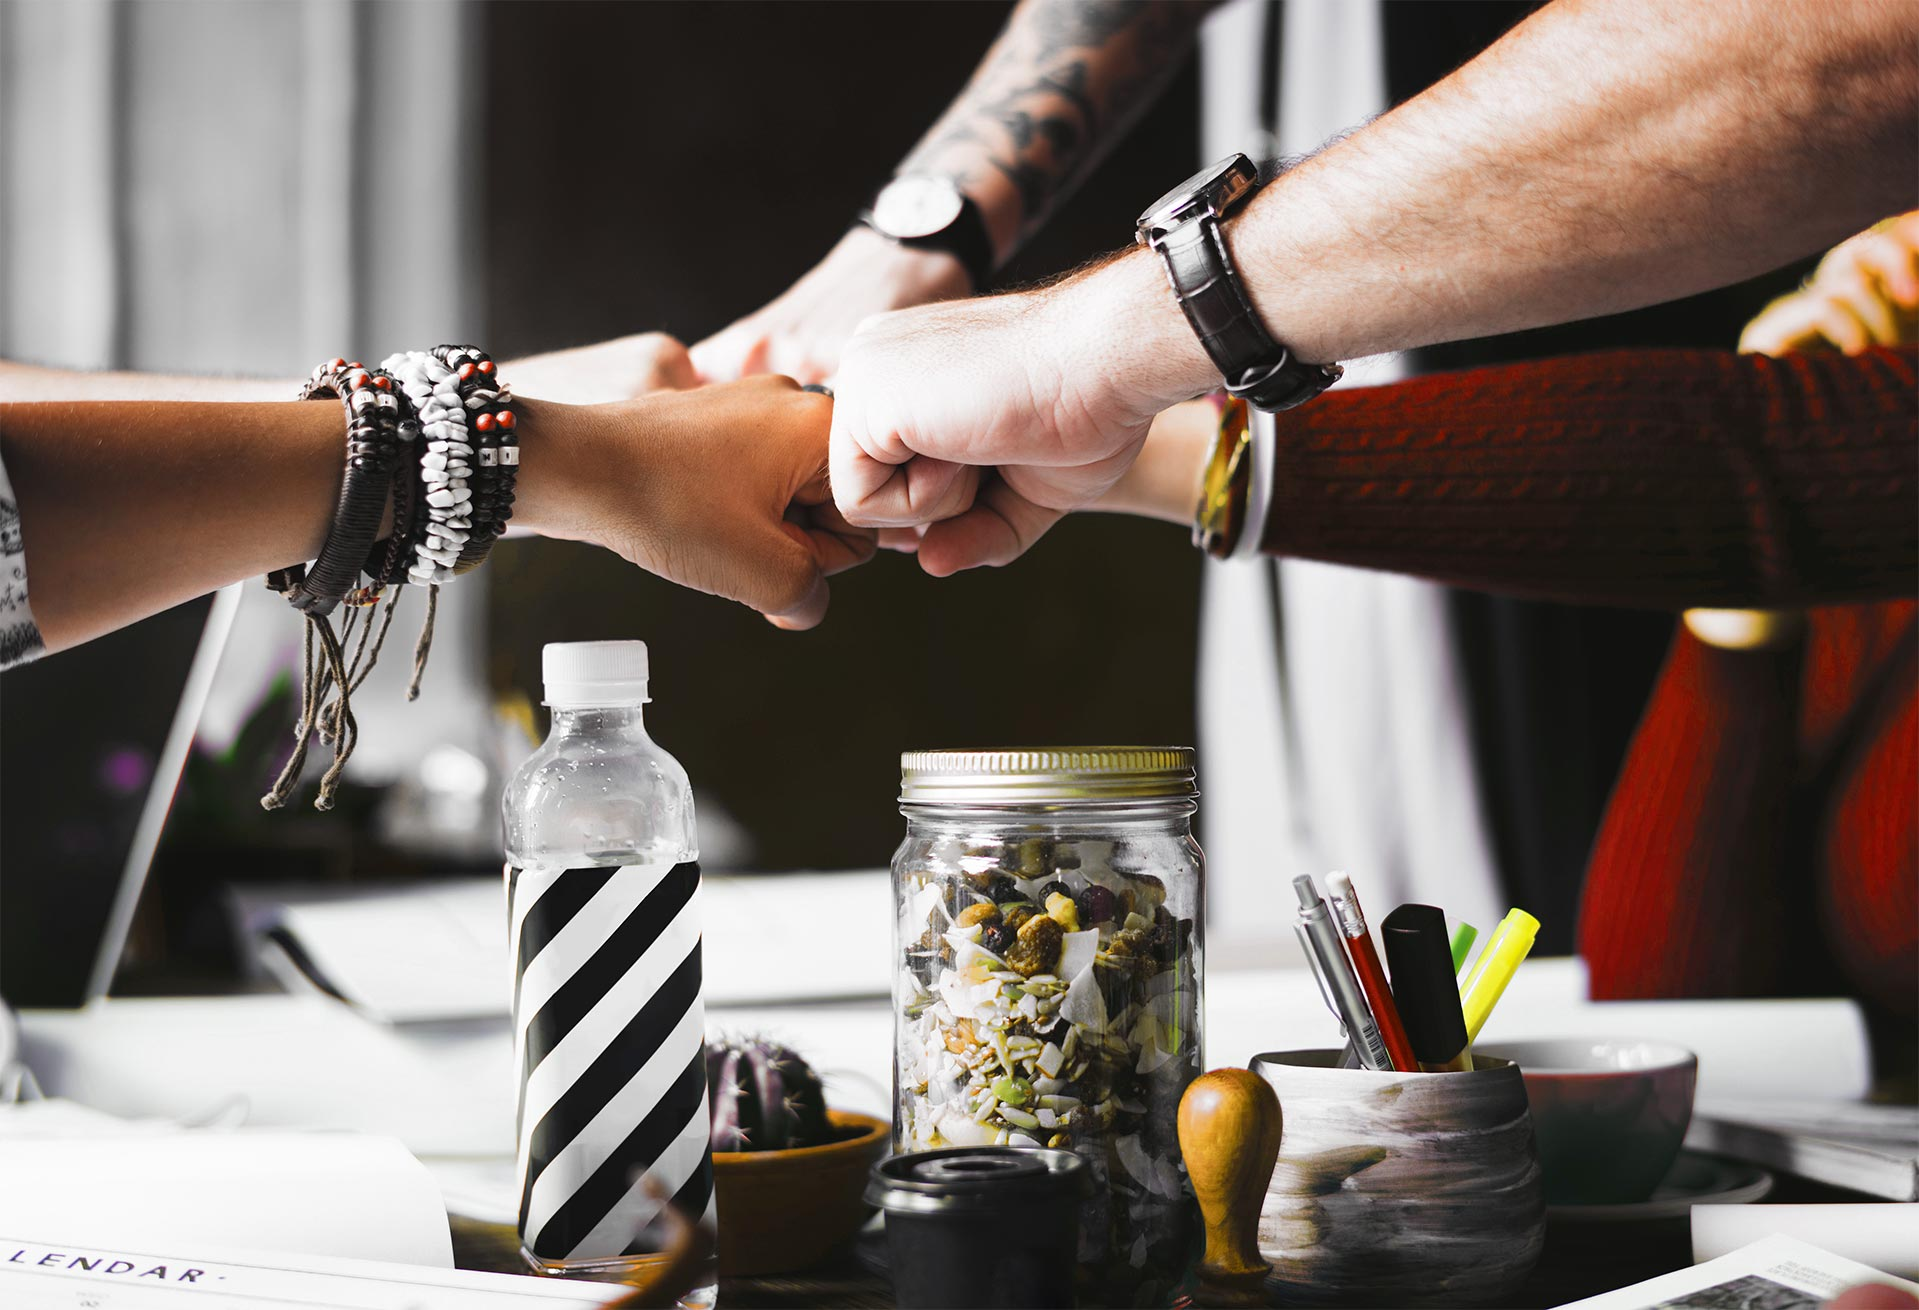
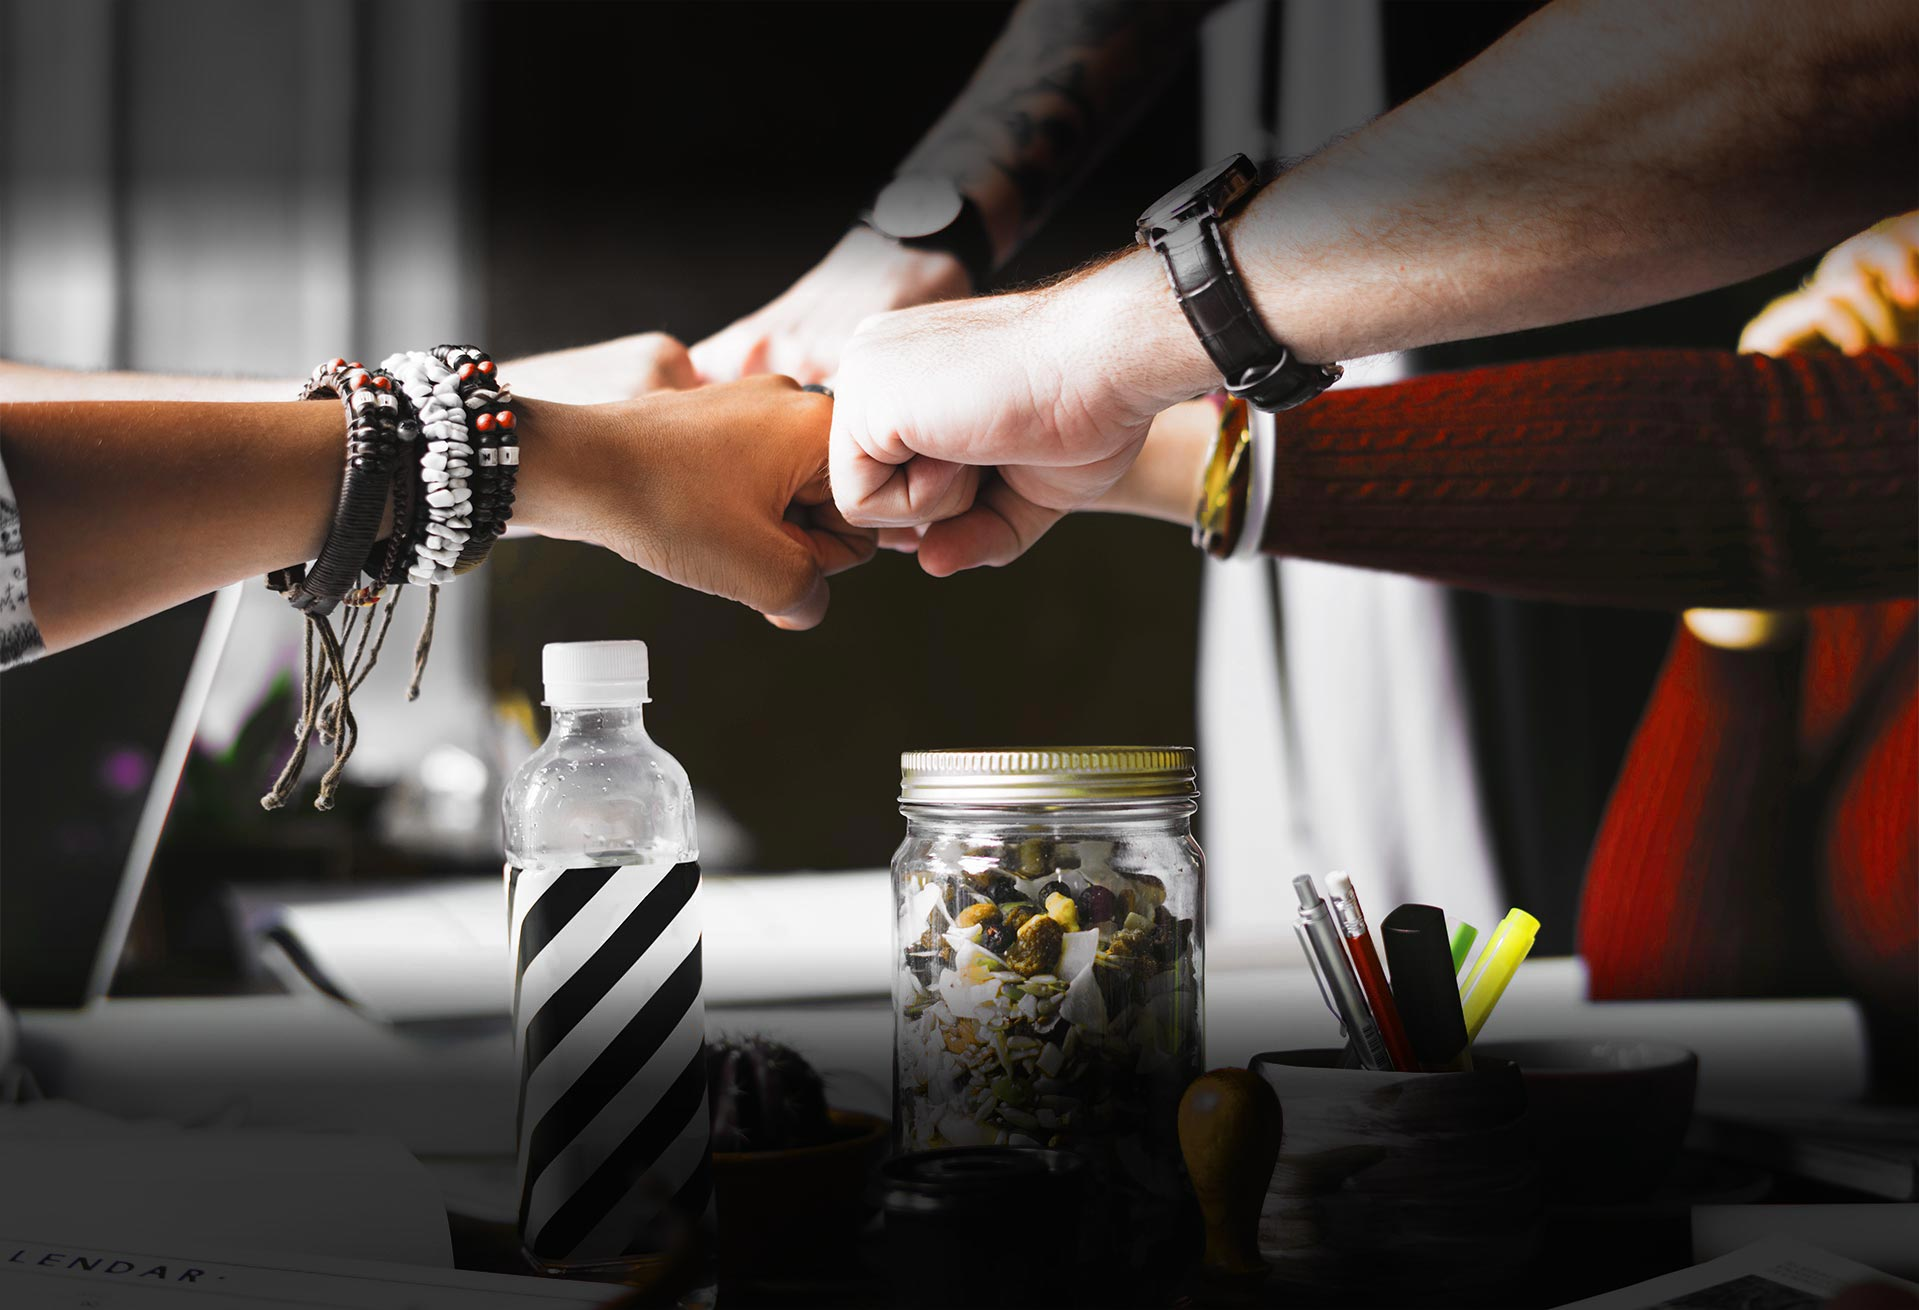
added darkened bottom on HOME BG pictures, removed darkened class, made links bolder --> better visibility

diff --git a/index.html b/index.html
@@ -13,7 +13,7 @@ permalink: "/"
   <div class="js-slide"
         data-title="Projekte">
     <!-- Promo Block -->
-    <div class="js-smooth-scroll g-flex-centered g-height-100vh g-min-height-500--md g-bg-cover g-bg-pos-center g-bg-img-hero g-bg-black-opacity-0_5--after" style="background-image: url(img/HOMEprojects.jpg);">
+    <div class="js-smooth-scroll g-flex-centered g-height-100vh g-min-height-500--md g-bg-cover g-bg-pos-center g-bg-img-hero" style="background-image: url(img/HOMEprojects.jpg);">
       <div class="container text-center g-z-index-1">
         <h2 class="text-uppercase g-font-weight-700 g-font-size-22 g-font-size-36--md g-color-white g-mb-20">We are a accounting firm unify
           <br> providing
@@ -32,7 +32,7 @@ permalink: "/"
   <div class="js-slide"
         data-title="Blog">
     <!-- Promo Block -->
-    <div class="g-flex-centered g-height-100vh g-min-height-500--md g-bg-cover g-bg-pos-center g-bg-img-hero g-bg-black-opacity-0_5--after" style="background-image: url(img/HOMEblog.jpg);">
+    <div class="g-flex-centered g-height-100vh g-min-height-500--md g-bg-cover g-bg-pos-center g-bg-img-hero" style="background-image: url(img/HOMEblog.jpg);">
       <div class="container text-center g-z-index-1">
         <h2 class="text-uppercase g-font-weight-700 g-font-size-22 g-font-size-36--md g-color-white g-mb-20">We are a accounting firm unify
           <br> providing
@@ -94,7 +94,7 @@ permalink: "/"
   <div class="js-slide"
         data-title="Jobs">
     <!-- Promo Block -->
-    <div class="g-flex-centered g-height-100vh g-min-height-500--md g-bg-cover g-bg-pos-center g-bg-img-hero g-bg-black-opacity-0_5--after" style="background-image: url(img/HOMEjobs.jpg);">
+    <div class="g-flex-centered g-height-100vh g-min-height-500--md g-bg-cover g-bg-pos-center g-bg-img-hero" style="background-image: url(img/HOMEjobs.jpg);">
       <div class="container text-center g-z-index-1">
         <h2 class="text-uppercase g-font-weight-700 g-font-size-22 g-font-size-36--md g-color-white g-mb-20">We are a accounting firm unify
           <br> providing
@@ -773,28 +773,28 @@ permalink: "/"
     <div class="col-lg-2 col-md-3 g-brd-top g-brd-top-none--md g-brd-primary g-px-15 g-py-30 g-py-0--md">
     <i class="fa fa-envelope" aria-hidden="true"></i>
     <h3 class="text-uppercase g-font-size-default g-color-gray-dark-v1 g-mb-5">E-Mail</h3>
-    <strong>raphael@codeworx.at</strong>
+    <strong class="font-weight-normal">raphael@codeworx.at</strong>
     </div>
 
     <div class="col-lg-2 col-md-3 g-brd-top g-brd-top-none--md g-brd-left--md g-brd-primary g-px-15 g-py-30 g-py-0--md">
     <i class="fa fa-home" aria-hidden="true"></i>
     <h3 class="text-uppercase g-font-size-default g-color-gray-dark-v1 g-mb-5">Adresse</h3>
-    <strong>Kienzlstraße 13, 4600 Wels</strong>
+    <strong class="font-weight-normal">Kienzlstraße 13, 4600 Wels</strong>
     </div>
     <div class="col-lg-2 col-md-3 g-brd-top g-brd-top-none--md g-brd-left--md g-brd-primary g-px-15 g-py-30 g-py-0--md">
     <i class="fa fa-phone" aria-hidden="true"></i>
     <h3 class="text-uppercase g-font-size-default g-color-gray-dark-v1 g-mb-5">Telefon</h3>
-    <a><strong>+43 676 3335010</strong></a>
+    <a><strong class="font-weight-normal">+43 676 3335010</strong></a>
     </div>
     <div class="col-lg-2 col-md-6 g-brd-top g-brd-top-none--md g-brd-left--md g-brd-primary g-px-15 g-py-30 g-py-0--md">
     <i class="fa fa-facebook-official" aria-hidden="true"></i>
     <h3 class="text-uppercase g-font-size-default g-color-gray-dark-v1 g-mb-5">Facebook</h3>
-    <strong>facebook/codeworx.at</strong>
+    <strong class="font-weight-normal">facebook/codeworx.at</strong>
     </div>
     <div class="col-lg-2 col-md-6 g-brd-top g-brd-top-none--md g-brd-left--md g-brd-primary g-px-15 g-py-30 g-py-0--md">
     <i class="fa fa-twitter" aria-hidden="true"></i>
     <h3 class="text-uppercase g-font-size-default g-color-gray-dark-v1 g-mb-5">Twitter</h3>
-    <strong>codeworx</strong>
+    <strong class="font-weight-normal">codeworx</strong>
     </div>              
   </div>				  
 

diff --git a/css/styles.main_ke.css b/css/styles.main_ke.css
@@ -304,10 +304,6 @@ Animated Blog Slider Start */
   padding-bottom: 10px;
 }
 
-b, strong {
-	font-weight: 400;
-}
-
 .g-mb-5 {
 	font-weight: 700;
 }
